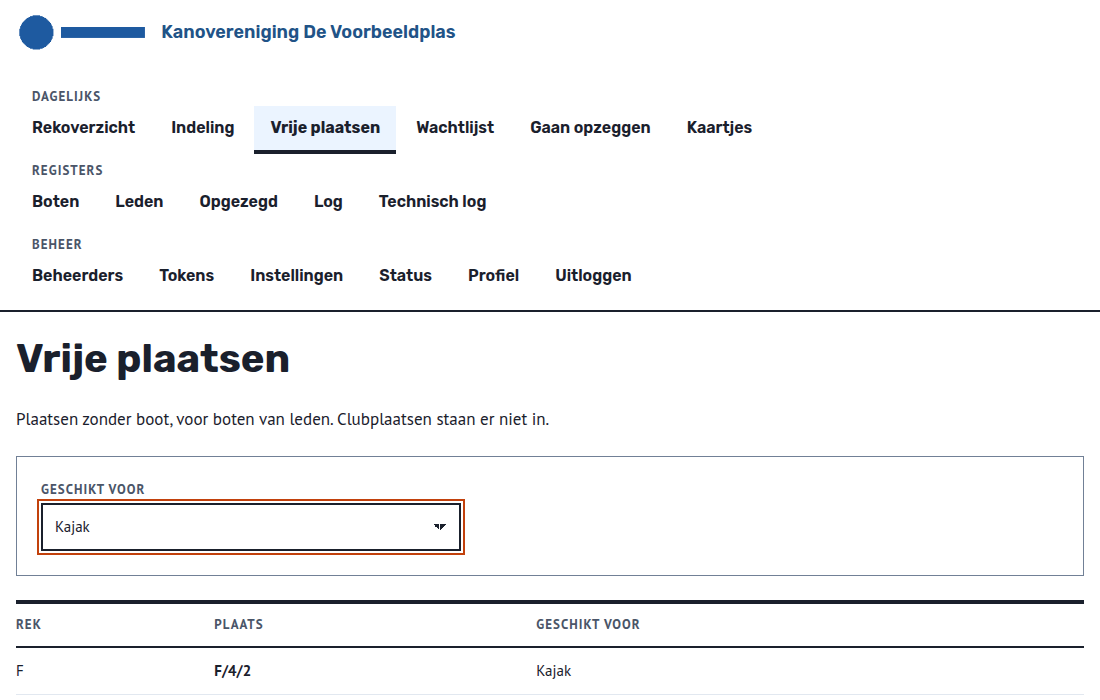
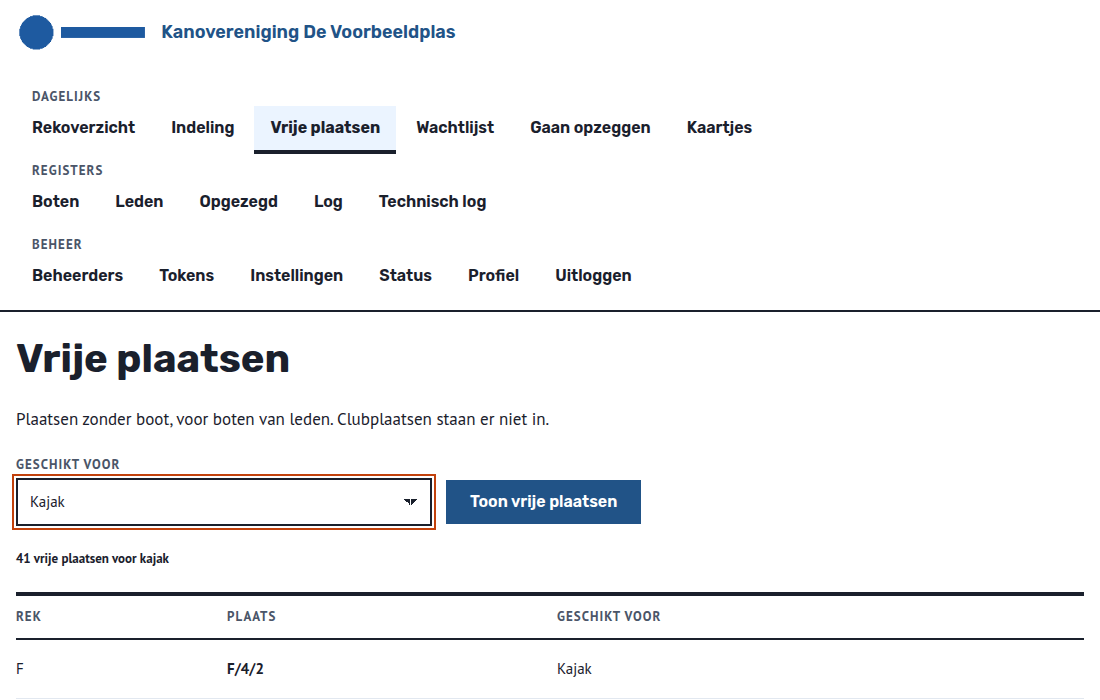
Scherm vrije plaatsen: knop en aantal (issue #150 deel 2, BV-44) (#173)
Zichtbare knop "Toon vrije plaatsen"; de keuzelijst verstuurt niet meer
zelf (WCAG 3.2.2), vrij.js en de noscript-knop vervallen. Boven de lijst
het aantal, enkelvoud bij 1. Opmaak uit designsystem cb39dd1 (vrij/).
ADR-002 v1.2.2 (vervangt #99), BLB-015, handleiding en schermafbeelding.

Toets Design System: akkoord. Unit 986, E2E 41 geslaagd, 0 overgeslagen.
Review: Sentinel, akkoord

Changed region(s): [[0.0, 0.84, 0.9891, 1.0], [0.0, 0.63, 0.5873, 0.81]]

diff --git a/app/web/templates/vrij.html b/app/web/templates/vrij.html
@@ -6,7 +6,7 @@
 <h1>Vrije plaatsen</h1>
 <p>Plaatsen zonder boot, voor boten van leden. Clubplaatsen staan er niet in.</p>
 
-<form method="get" action="{{ url_for('web.vrije_plaatsen') }}" class="kaart">
+<form method="get" action="{{ url_for('web.vrije_plaatsen') }}" class="bl-filter">
   <div class="ds-field">
     <label class="ds-field__label" for="bootsoort">Geschikt voor</label>
     <select class="dj-select" id="bootsoort" name="bootsoort"{% if gekozen %} autofocus{% endif %}>
@@ -16,18 +16,19 @@
       {% endfor %}
     </select>
   </div>
-  <noscript><button type="submit" class="ds-btn ds-btn--primary">Filteren</button></noscript>
+  <button type="submit" class="ds-btn ds-btn--primary">Toon vrije plaatsen</button>
 </form>
 
 {% if plaatsen %}
-<div class="ds-table-wrap tabel">
-<table class="ds-table dj-table--stack" role="table">
+<p class="bl-aantal">{{ plaatsen|length }} {{ 'vrije plaats' if plaatsen|length == 1 else 'vrije plaatsen' }}{% if gekozen %} voor {{ gekozen.naam|lower }}{% endif %}</p>
+<div class="ds-table-wrap">
+<table class="ds-table dj-table--stack bl-vrij" role="table">
   <thead role="rowgroup"><tr role="row"><th role="columnheader">Rek</th><th role="columnheader">Plaats</th><th role="columnheader">Geschikt voor</th></tr></thead>
   <tbody role="rowgroup">
   {% for p in plaatsen %}
     <tr role="row">
       <td role="cell" data-label="Rek">{{ p.rek.naam }}</td>
-      <td role="cell" data-label="Plaats"><a href="{{ url_for('web.plaats_detail', plaats_id=p.id) }}">{{ p.code }}</a></td>
+      <td role="cell" data-label="Plaats"><a class="bl-plaatslink" href="{{ url_for('web.plaats_detail', plaats_id=p.id) }}">{{ p.code }}</a></td>
       <td role="cell" data-label="Geschikt voor">{{ p.bootsoorten|map(attribute='naam')|join(', ') }}</td>
     </tr>
   {% endfor %}
@@ -40,4 +41,3 @@
 
 {{ logtabel(regels) }}
 {% endblock %}
-{% block scripts %}<script src="{{ url_for('static', filename='vrij.js') }}"></script>{% endblock %}

diff --git a/app/web/static/stijl.css b/app/web/static/stijl.css
@@ -166,3 +166,15 @@ td form { gap: var(--space-2); }
   .blad { margin: 0; break-after: page; }
   .blad:last-child { break-after: auto; }
 }
+
+/* Vrije plaatsen (BV-44): keuzelijst en knop op een regel, aantal eronder; op een telefoon een kaart per plaats */
+.bl-filter { display: flex; flex-wrap: wrap; align-items: end; gap: var(--space-3); margin: 0; }
+.bl-filter .ds-field { flex: 1 1 16rem; max-width: 26rem; }
+.bl-filter .ds-btn { min-height: var(--control-height); }
+.bl-aantal { margin: 0; color: var(--ink); font: var(--type-label); }
+@media (width < 40rem) {
+  .bl-vrij tr { display: grid; grid-template-columns: 1fr 1fr; column-gap: var(--space-4); margin-bottom: var(--space-3); padding-block: var(--space-1); }
+  .bl-vrij td { gap: 0; padding-block: var(--space-1); }
+  .bl-vrij td:last-child { grid-column: 1 / -1; }
+  .bl-plaatslink { display: inline-flex; align-items: center; min-height: var(--control-height); font: var(--type-control); }
+}

diff --git a/tests/unit/test_overzichten_en_instellingen.py b/tests/unit/test_overzichten_en_instellingen.py
@@ -56,17 +56,23 @@ def test_vrije_plaatsen_zonder_bezet_en_clubplaats(app):
     assert indeling.vrije_plaatsen(soort("Supboard")) == []
 
 
-def test_vrije_plaatsen_filter_zonder_knop_met_script_en_focus(ingelogd):  # noqa: F811
+def test_vrije_plaatsen_filter_met_zichtbare_knop_zonder_script_en_focus(ingelogd):  # noqa: F811
     loods()
     zonder = ingelogd.get("/vrij").text
-    zichtbaar = re.sub(r"<noscript>.*?</noscript>", "", zonder, flags=re.DOTALL)
-    assert "<noscript><button" in zonder, "zonder script blijft de knop beschikbaar"
-    assert "Filteren" not in zichtbaar, "knop Filteren buiten noscript"
-    assert '<script src="/static/vrij.js"></script>' in zichtbaar, "script van de eigen site"
-    assert "<script>" not in zichtbaar and "onchange" not in zichtbaar, "geen inline script"
+    assert re.search(r'<button type="submit" class="ds-btn ds-btn--primary">Toon vrije plaatsen</button>', zonder)
+    assert "<noscript" not in zonder and "Filteren" not in zonder, "de knop staat er altijd"
+    assert "<script" not in zonder and "vrij.js" not in zonder and "onchange" not in zonder, "geen script"
     assert "autofocus" not in zonder, "autofocus zonder gekozen bootsoort"
     met = ingelogd.get(f"/vrij?bootsoort={soort('Surfski')}").text
     assert re.search(r'<select[^>]* id="bootsoort"[^>]* autofocus', met), "autofocus met gekozen bootsoort"
+
+
+def test_vrije_plaatsen_aantal_enkelvoud_meervoud_en_zonder_soort(ingelogd):  # noqa: F811
+    loods()
+    assert '<p class="bl-aantal">2 vrije plaatsen</p>' in ingelogd.get("/vrij").text, "meervoud, zonder soort"
+    assert '<p class="bl-aantal">1 vrije plaats voor surfski</p>' in ingelogd.get(
+        f"/vrij?bootsoort={soort('Surfski')}").text, "enkelvoud, soort in kleine letters"
+    assert "bl-aantal" not in ingelogd.get(f"/vrij?bootsoort={soort('Supboard')}").text, "bij 0 de melding"
 
 
 def test_vrije_plaatsen_scherm_met_filter_en_vrijgeven(ingelogd):  # noqa: F811

diff --git a/tests/e2e/test_overzichten.py b/tests/e2e/test_overzichten.py
@@ -23,6 +23,8 @@ def test_vrije_plaatsen_indeling_op_telefoon_en_export(page):
     page.on("console", lambda m: meldingen.append(m.text) if m.type == "error" else None)
     page.goto("/vrij")
     page.get_by_label("Geschikt voor").select_option(label="Surfski")
+    expect(page).to_have_url(re.compile(r"/vrij$"))  # de keuzelijst verstuurt niet zelf (WCAG 3.2.2)
+    page.get_by_role("button", name="Toon vrije plaatsen").click()
     page.wait_for_url(re.compile(r"/vrij\?bootsoort=\d+$"))
     expect(page.get_by_label("Geschikt voor")).to_be_focused()
     expect(page.get_by_role("link", name=ski, exact=True)).to_be_visible()
@@ -31,6 +33,7 @@ def test_vrije_plaatsen_indeling_op_telefoon_en_export(page):
     for rij in page.locator("main > .ds-table-wrap > table tbody tr").all():
         expect(rij.locator("td").nth(2)).to_contain_text("Surfski")
     page.get_by_label("Geschikt voor").select_option(label="Alle bootsoorten")
+    page.get_by_role("button", name="Toon vrije plaatsen").click()
     page.wait_for_url(re.compile(r"/vrij\?bootsoort=$"))
     expect(page.get_by_role("link", name=kajak, exact=True)).to_be_visible()
     expect(page.get_by_role("link", name=ski, exact=True)).to_be_visible()

diff --git a/documentatie/gebruikers/schermafbeeldingen.py b/documentatie/gebruikers/schermafbeeldingen.py
@@ -198,6 +198,7 @@ def schermen(browser):
     # Overzichten.
     page.goto("/vrij")
     page.get_by_label("Geschikt voor").select_option(label="Kajak")
+    page.get_by_role("button", name="Toon vrije plaatsen").click()
     page.wait_for_url(re.compile(r"/vrij\?bootsoort=\d+$"))
     o.maak("vrij", hoogte=700)
     page.goto("/wachtlijst")

diff --git a/docs/architecture/adr/ADR-002-frontendaanpak.md b/docs/architecture/adr/ADR-002-frontendaanpak.md
@@ -2,7 +2,7 @@
 
 **Status:** Besloten door Foundation
 **Datum:** 2026-10-30
-**Versie:** v1.2.1
+**Versie:** v1.2.2
 **Stories:** alle schermen, vooral BLB-016, BLB-020, BLB-021, BLB-027
 
 ## Context
@@ -17,7 +17,7 @@ De interface is server-rendered met Jinja-templates en gewone HTML-formulieren. 
 
 - **Styling:** de tokens en componenten komen uit de Dajaks-basis 0.3.0, afgenomen met `basis/afname.py` in `app/web/static/ds/` (met `ds-manifest.json`). De aanvulling `dj-components.css` staat niet in de afname en is gekopieerd naar `app/web/static/dj/`, zodat de conformiteitscontrole van de basis slaagt. Laadvolgorde: `ds/tokens/dajaks.css`, `ds/ds-components.css`, `dj/dj-components.css`, `stijl.css`. Templates gebruiken `ds-` en `dj-` klassen. `stijl.css` bevat alleen wat de basis niet kent (de `bl-`klassen van blok 1: pagina, kop en menu, rekraster en indelingsformulier; printkaartjes, `.qr`, `.foto` en log) en gebruikt alleen `var(--token)` en geen vaste kleur. Een `.ds-` of `.dj-` klasse komt alleen voor onder een `bl-`klasse als producthaak, nooit als losse selector. Rubik en PT Sans komen als woff2 uit `/static`, zonder externe bron. Alleen het lichte thema; de kaartjes blijven licht. De kleuren zijn niet instelbaar: `/huisstijl.css` en de kleurkiezers zijn vervallen. De naam van de vereniging staat als tekst in de template.
 - **Responsive:** mobile first met CSS grid en flexbox. Tabellen worden op smalle schermen kaarten per rij. Het raster van een rek (indeling en rekoverzicht) schuift op een telefoon horizontaal, met een vaste kolom voor de verdieping. Het Rekoverzicht (`/rekoverzicht`, alleen beheerders) toont dat raster met een plaatje per plaats uit `static/boten/`; een bootsoort zonder plaatje toont de naam als tekst, en de alt-tekst noemt plaatscode, bootsoort en status.
-- **JavaScript:** alleen waar het niet anders kan: het passkeyscript (ADR-001) en een kleine bevestiging bij verwijderen. Het filter op `/vrij` (`vrij.js`) verstuurt het formulier bij een keuze; zonder script staat de knop in `<noscript>`. De keuzepagina voor kaartjes (`/kaartjes`) werkt zonder script: de selectievakjes **Alle plaatsen** en **Heel <rek>** laten de server de plaatsen bepalen (ADR-011). Gewone bestanden in `static/`, zonder bundler.
+- **JavaScript:** alleen waar het niet anders kan: het passkeyscript (ADR-001) en een kleine bevestiging bij verwijderen. Het filter op `/vrij` werkt zonder script: de knop **Toon vrije plaatsen** is er altijd en de keuzelijst verstuurt niet zelf (WCAG 3.2.2). Dit vervangt issue #99 (filter zonder knop, gesloten). De keuzepagina voor kaartjes (`/kaartjes`) werkt zonder script: de selectievakjes **Alle plaatsen** en **Heel <rek>** laten de server de plaatsen bepalen (ADR-011). Gewone bestanden in `static/`, zonder bundler.
 - **Toegankelijkheid:** semantische HTML, labels bij elk veld, voldoende contrast. De kleurparen van de basis zijn getoetst door het design system; een waarschuwing bij slecht leesbare kleuren is niet meer nodig. Tabellen worden onder 40rem kaarten (`dj-table--stack`) met `data-label` op elke `td` en ARIA-rollen op tabel, rij en cel.
 - **Print:** de kaartjes zijn een HTML-pagina met print-CSS (`@page`, raster op A4). De beheerder print via de browser of slaat op als pdf (ADR-011).
 - **CSP:** Traefik stuurt (ADR-013) een strikte Content Security Policy zonder inline scripts. Inline styles zijn niet nodig: alle stijl staat in bestanden onder `/static`, zodat de CSP geen nonce of uitzondering nodig heeft.
@@ -42,6 +42,7 @@ De interface is server-rendered met Jinja-templates en gewone HTML-formulieren. 
 
 | Versie | Datum | Wijziging | Reden |
 |--------|-------|-----------|-------|
+| v1.2.2 | 2026-11-07 | Scherm Vrije plaatsen: zichtbare knop in plaats van een script bij de keuze, `vrij.js` vervalt, aantal boven het resultaat | Besluit stakeholder BV-44, issue #150 (vervangt issue #99) |
 | v1.2.1 | 2026-11-07 | Blok 1 van het nieuwe ontwerp: menu in drie groepen, `bl-`klassen voor het rekraster, het raster schuift op een telefoon; `ds-` en `dj-` klassen alleen onder een `bl-`klasse | Besluiten stakeholder 2026-11-06 (BV-42), issue #150 |
 | v1.2.0 | 2026-11-06 | Dajaks-basis 0.3.0 met `ds-` en `dj-` klassen en eigen woff2; alleen licht thema; instelbare kleuren en `/huisstijl.css` vervallen | Besluiten stakeholder 2026-11-06, issue #150 |
 | v1.1.5 | 2026-11-05 | JavaScript zoals gebouwd: alles selecteren op de kaartjespagina zonder script, filter op `/vrij` met script | Issue #47 (slice 8), issue #99 |

diff --git a/werk/terugblik/2026-11-07-sentinel-150-vrij.md b/werk/terugblik/2026-11-07-sentinel-150-vrij.md
@@ -1,0 +1,26 @@
+# Terugblik Sentinel, review scherm Vrije plaatsen
+
+**Datum:** 2026-11-07
+**Taak:** review vóór de commit van het scherm Vrije plaatsen (`/vrij`), issue #150 deel 2, BV-44
+
+## Wat ging goed
+
+De brief noemde de bronnen, de bekende testuitkomst, de bekende E2E-fout (#172) en de mutanten die de bouwer al had gedraaid. Daardoor kon ik direct toetsen. Alle vier templatemutanten draaiden als bind mount en vielen elk op een assert met een eigen melding.
+
+## Wat kon beter
+
+De mutant zonder enkelvoud en de mutant zonder `|lower` vallen op dezelfde assert (`tests/unit/test_overzichten_en_instellingen.py:73`). Dat is genoeg om beide te vangen, maar één assert bewijst daar twee criteria. Ik wachtte op het einde van de volledige E2E-run met `pgrep -f draai.sh`; dat raakt ook de wachtlussen van mij en andere agents, die zelf `draai.sh` in hun commando hebben, en eindigt dus nooit. `kill -0` op de pid van het script werkte wel. Een E2E-mutant op het zelf versturen kon ik niet draaien: `vrij.js` staat in `app/web/static/` en de brief gaf geen toestemming om de werkmap tijdelijk te wijzigen. Het oordeel over de zwakke E2E-assert rust daarom op de unittest en op redeneren.
+
+## Wat deed ik zelf goed
+
+Elke mutant gemaakt met een telling dat de vervangen tekst precies één keer voorkomt, met een diff tegen `git show :pad` gecontroleerd, en het commando vastgelegd in `commando.txt` in de scratchpad. Naast de drie gevraagde mutanten ook een mutant zonder de knop gedraaid.
+
+## Wat heb ik onderweg verbeterd
+
+Voor de mutant met het script gecontroleerd dat `{% endblock %}` twee keer voorkomt en het blok `scripts` daarom achter het laatste geplakt, in plaats van een vervanging die beide raakt.
+
+## Wat kan structureel beter in de opdracht of de afspraken
+
+Zet in de opdracht: wil je dat een E2E-mutant op een bestand in `app/web/static/` draait, geef dan toestemming om dat bestand tijdelijk in de werkmap terug te zetten en met `cmp` te herstellen; zonder die toestemming toetst de reviewer dat gedrag alleen met de unittest.
+
+Zet in de opdracht: wacht op het einde van `draai.sh` met `kill -0 <pid>` of met `docker ps`, nooit met `pgrep -f draai.sh`; dat telt ook de wachtlussen van andere agents mee.

diff --git a/docs/product/backlog.md b/docs/product/backlog.md
@@ -1,7 +1,7 @@
 # Productbacklog botenloodsbeheer
 
 **Project:** botenloodsbeheer
-**Versie:** v0.6.5
+**Versie:** v0.6.6
 **Datum:** 2026-11-06
 **Opgesteld door:** Apex, Senior Product Owner
 **Status:** Slice 1 tot en met 6 af; besluiten van de stakeholder van 2026-10-31 en ADR-012 verwerkt; issue #80 verwerkt, tot en met 2026-11-03; issue #82 verwerkt
@@ -308,6 +308,7 @@ Als beheerder wil ik een overzicht van vrije plaatsen, te filteren op bootsoort,
 - Gegeven vrije en bezette plaatsen, wanneer de beheerder het overzicht opent, dan staan alleen vrije plaatsen in de lijst, met aanduiding en geschikte bootsoorten. Clubplaatsen staan er niet in.
 - Gegeven het filter surfski, wanneer de beheerder dat kiest, dan staan alleen vrije plaatsen die voor surfski geschikt zijn in de lijst.
 - Gegeven een filter waarvoor geen vrije plaats bestaat, wanneer de beheerder dat kiest, dan staat er dat er geen vrije plaatsen zijn.
+- Gegeven een keuze in de lijst Geschikt voor, wanneer de beheerder Toon vrije plaatsen kiest, dan staat boven de lijst het aantal, zoals "4 vrije plaatsen voor surfski" ("1 vrije plaats voor surfski" bij één; zonder gekozen soort zonder "voor …"). De keuzelijst verstuurt het formulier niet zelf (WCAG 3.2.2; BV-44, issue #150).
 
 #### BLB-016 Indeling van de loods op het scherm
 
@@ -771,6 +772,7 @@ De stakeholder besloot deze vragen op 2026-10-31. Ze staan ook in `docs/business
 
 | Versie | Datum | Wijziging |
 |--------|-------|-----------|
+| v0.6.6 | 2026-11-07 | BLB-015: aantal boven de lijst en een knop Toon vrije plaatsen in plaats van versturen bij een keuze (BV-44, issue #150) |
 | v0.6.5 | 2026-11-06 | Issue #157: BLB-045, rekindeling als CSV exporteren en importeren (ADR-014) |
 | v0.6.4 | 2026-11-06 | Issue #150: BLB-027 zonder instelbare kleuren (besluit stakeholder 2026-11-06); het criterium over een waarschuwing bij slecht leesbare kleuren vervalt |
 | v0.6.3 | 2026-11-06 | Issue #143: het kaartje toont de bootsoorten van de plaats, geen omschrijving van het rek en geen eigenaar (BLB-021, BLB-001) |

diff --git a/werk/terugblik/2026-11-07-prism-150-vrij.md b/werk/terugblik/2026-11-07-prism-150-vrij.md
@@ -1,0 +1,20 @@
+# Terugblik Prism, scherm Vrije plaatsen (issue #150, BV-44)
+
+Datum: 2026-11-07. Taak: scherm `/vrij` herbouwen volgens het ontwerp (knop, aantal, `bl-` klassen), tests en documenten bijwerken.
+
+## Wat ging goed
+Het README en de lijst met klassewijzigingen waren genoeg om het sjabloon in één keer goed te krijgen. De melding in `_melding.html` voldeed al aan `ds-notice` met `role=status`, dus daar hoefde niets te veranderen. De mutanten vielen allebei op `tests/unit/test_overzichten_en_instellingen.py:73`.
+
+## Wat kon beter
+Ik startte per ongeluk de volledige unitsuite met een gegokte servicenaam. Het werkte, maar ik had eerst moeten opzoeken hoe de suite draait. De volledige E2E-run duurt ruim 15 minuten door de pauzes van 40 seconden; ik had de schermafbeeldingen niet kunnen parallelliseren.
+
+## Wat deed je zelf goed
+Alle E2E-selectors op `/vrij` zocht ik in `tests/e2e/` en `schermafbeeldingen.py`; drie plekken gewijzigd. De 360-opname maakte ik met `DOC_BREEDTE` en ruimde de bestanden in de repo daarna op.
+
+## Wat heb je onderweg zelf verbeterd
+`.tabel` en `.kaart` weggelaten waar het ontwerp ze niet kent. De unittest toetst nu ook de afwezigheid van `<script` en `<noscript` in plaats van alleen de oude `vrij.js`.
+
+## Wat kan structureel beter
+- Zet in de opdracht: de volledige E2E-run in de baseline kan een wisselvallige test hebben; noem `test_beide_methodes_wachtwoord_vergrendeld_passkey_slaagt` (strict mode op `get_by_role("alert")`, twee elementen) als bekend wisselvallig, en laat de bouwer een mislukte test eerst los met `-k` herhalen.
+- Zet in de opdracht: de unitsuite draait met `docker compose -f docker-compose.yml -f compose.dev.yml run --rm --no-deps test` (service `test`), en een E2E-mutant op een sjabloon loopt als bind mount via dezelfde service.
+- Zet in de opdracht: `schermafbeeldingen.sh` maakt alle 30 afbeeldingen opnieuw; de bouwer zet alles behalve de eigen afbeelding terug met `git checkout`.

diff --git a/documentatie/gebruikers/handleiding.md b/documentatie/gebruikers/handleiding.md
@@ -149,7 +149,7 @@ In het menu staan drie overzichten. Ze zijn alleen om te lezen; je werkt vanuit 
 
 | Menu | Adres | Wat je ziet |
 |---|---|---|
-| Vrije plaatsen | `/vrij` | Vrije plaatsen voor boten van leden, clubplaatsen niet. Filter op bootsoort. |
+| Vrije plaatsen | `/vrij` | Vrije plaatsen voor boten van leden, clubplaatsen niet, met het aantal erboven. Kies bij **Geschikt voor** een bootsoort en kies **Toon vrije plaatsen**. |
 | Opgezegd | `/opgezegd` | Boten van oud-leden die nog een plaats hebben, de oudste opzegging bovenaan. |
 | Gaan opzeggen | `/opzeggend` | Boten met een plaats van leden met een opzegdatum in de toekomst, de vroegste bovenaan. |
 
